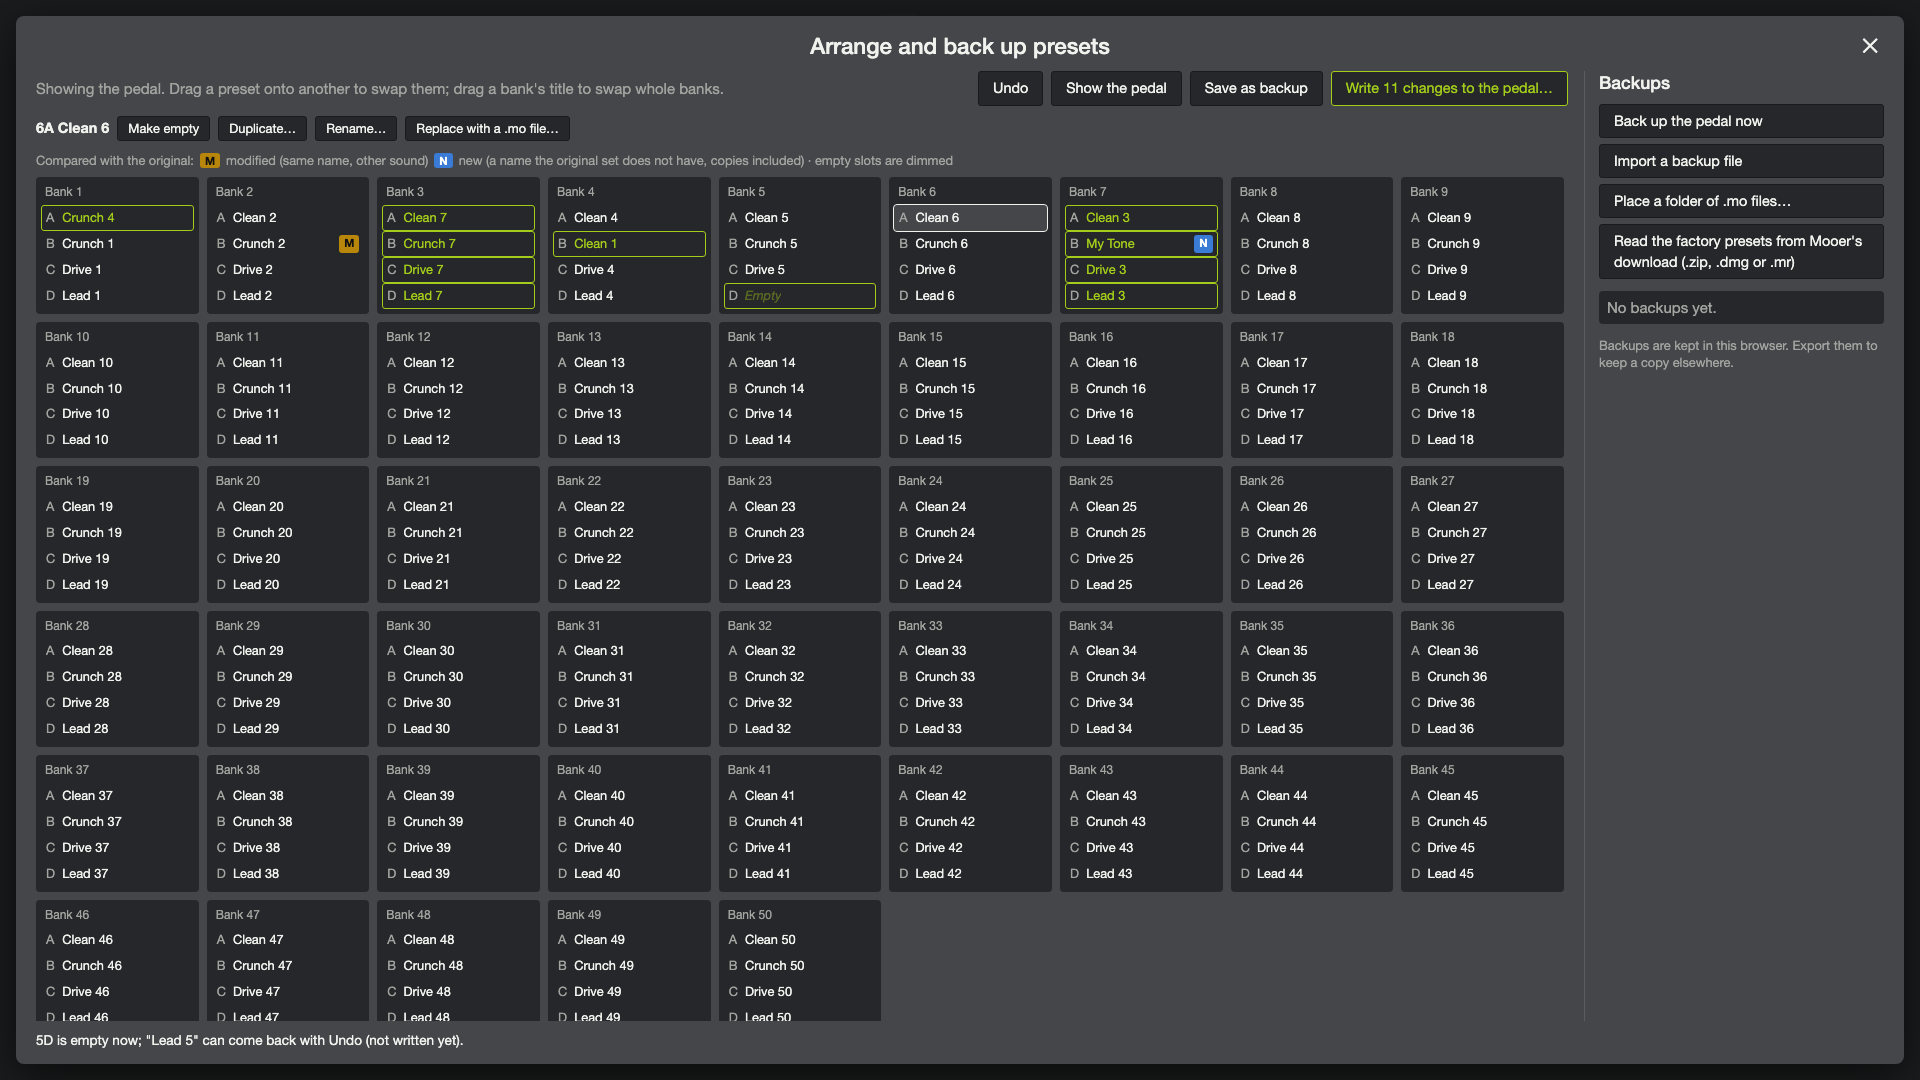
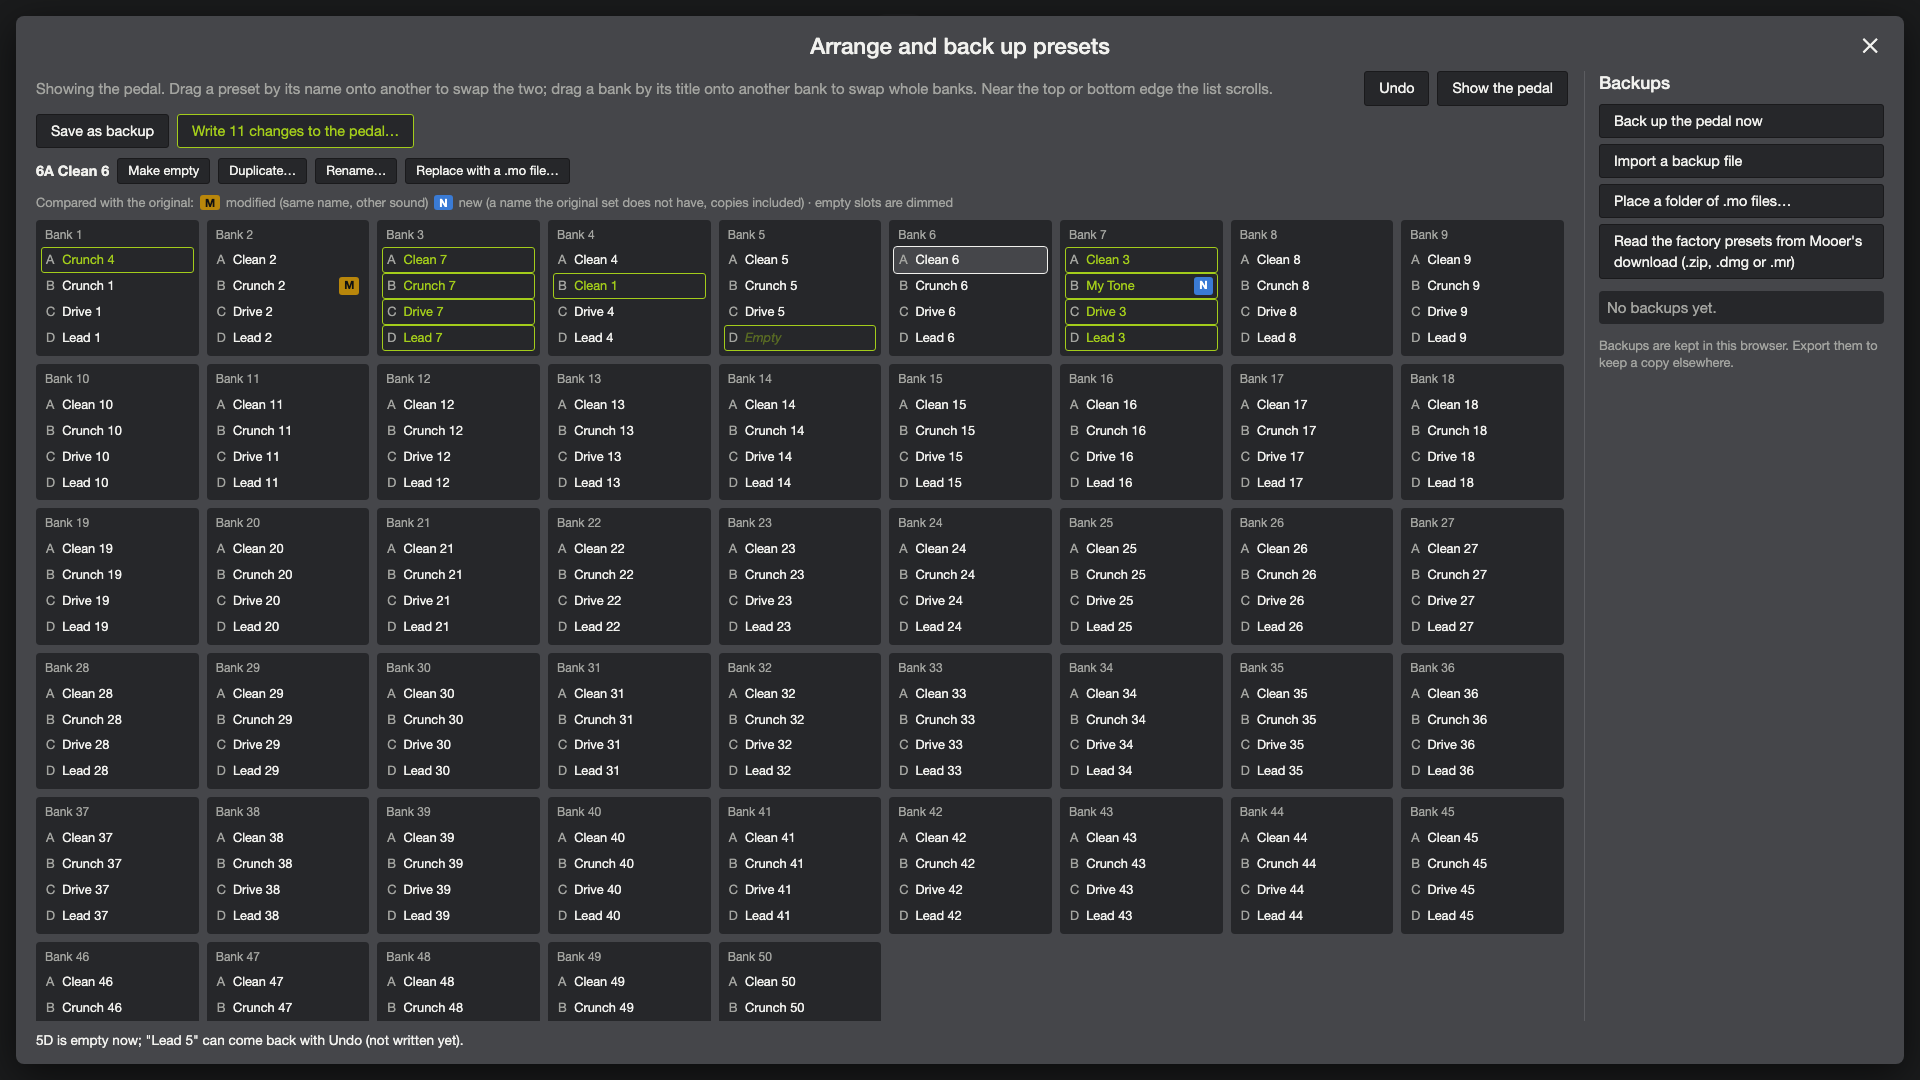
feat(arrange): banks and presets swap by drag and drop with a target frame and auto-scroll
- a bank is grabbed by its title and dropped anywhere on another bank; the two swap (Undo takes it back)
- a preset is grabbed by its name and swaps with the slot it is dropped on, in its bank or another
- the drop target has a thin frame of its own color; the dragged bank or slot is dimmed
- near the top or bottom edge of the list (or past it) the list scrolls, so every bank can be reached; a drop
  outside the list does nothing

Claude-Session: https://claude.ai/code/session_01Ew5DouUYP7qcWshz9murCz

Changed region(s): [[0.0, 0.0611, 0.8125, 0.9472]]

diff --git a/src/components/ArrangeDialog.svelte b/src/components/ArrangeDialog.svelte
@@ -65,12 +65,52 @@
   }
 
   // ---- drag and drop ---------------------------------------------------------------------------------------------
-  const drag = (e: DragEvent, what: string) => {
+  /** What is being dragged here: a bank, a slot's preset or a tray chip (null: nothing, or a file from outside). */
+  let dragging: { kind: string; n: number } | null = $state(null);
+  const drag = (e: DragEvent, what: string, image?: Element | null) => {
     // Option (Alt) while dragging a preset: copy it instead of swapping
     const copy = e.altKey && what.startsWith('slot:');
     e.dataTransfer?.setData('text/plain', copy ? what.replace('slot:', 'copy:') : what);
     if (e.dataTransfer) e.dataTransfer.effectAllowed = copy ? 'copy' : 'move';
+    // the whole slot or bank goes with the pointer, not just the name or title that was grabbed
+    if (image && e.dataTransfer) e.dataTransfer.setDragImage(image, 12, 10);
+    const [kind, n] = what.split(':');
+    dragging = { kind, n: Number(n) };
+    startAutoScroll();
   };
+  function dragEnd() {
+    dragging = null;
+    dragOver = '';
+    stopAutoScroll();
+  }
+
+  // While dragging, the grid scrolls when the pointer is near its top or bottom edge, or beyond it, so every bank and
+  // slot can be reached; a drop outside the grid does nothing.
+  let banksEl: HTMLElement | undefined = $state();
+  let pointerY: number | null = null;
+  let scrollFrame = 0;
+  const EDGE = 48;
+  function startAutoScroll() {
+    cancelAnimationFrame(scrollFrame);
+    const step = () => {
+      const el = banksEl;
+      if (el && pointerY !== null) {
+        const r = el.getBoundingClientRect();
+        const up = r.top + EDGE - pointerY;
+        const down = pointerY - (r.bottom - EDGE);
+        // faster the closer to (or further past) the edge: up to 20 px per frame
+        if (up > 0) el.scrollTop -= Math.min(20, Math.ceil(up / 4));
+        else if (down > 0) el.scrollTop += Math.min(20, Math.ceil(down / 4));
+      }
+      scrollFrame = requestAnimationFrame(step);
+    };
+    scrollFrame = requestAnimationFrame(step);
+  }
+  function stopAutoScroll() {
+    cancelAnimationFrame(scrollFrame);
+    pointerY = null;
+  }
+  onMount(() => stopAutoScroll);
   /** What a drop carries: "slot:3", "copy:3", "bank:7" or "tray:0". */
   const dropped = (e: DragEvent) => {
     const [kind, n] = (e.dataTransfer?.getData('text/plain') ?? '').split(':');
@@ -133,9 +173,20 @@
     if (file && selected !== null) replaceWithMo(file, selected);
   }
 
+  /** A slot under a dragged preset, tray chip or file (a dragged bank goes to the bank instead). */
+  function overSlot(e: DragEvent, slot: number) {
+    if (dragging?.kind === 'bank') return;
+    over(e, `slot:${slot}`);
+  }
+  function overBank(e: DragEvent, bank: number) {
+    if (dragging?.kind !== 'bank') return;
+    over(e, `bank:${bank}`);
+  }
+
   function dropOnSlot(e: DragEvent, slot: number) {
+    if (dragging?.kind === 'bank') return; // the bank takes it
     e.preventDefault();
-    dragOver = '';
+    dragEnd();
     const file = e.dataTransfer?.files?.[0];
     if (file) {
       if (file.name.toLowerCase().endsWith('.mo')) replaceWithMo(file, slot);
@@ -153,8 +204,9 @@
   }
 
   function dropOnBank(e: DragEvent, bank: number) {
+    if (dragging?.kind !== 'bank') return;
     e.preventDefault();
-    dragOver = '';
+    dragEnd();
     const { kind, n } = dropped(e);
     if (kind === 'bank' && n !== bank) change(swapBanks(layout, n, bank));
   }
@@ -342,7 +394,11 @@
   const estimate = (n: number) => Math.ceil((n * 0.6) / 5) * 5;
 </script>
 
-<svelte:window onkeydown={(e) => e.key === 'Escape' && !editor.busy && !confirming && onclose()} />
+<svelte:window
+  onkeydown={(e) => e.key === 'Escape' && !editor.busy && !confirming && onclose()}
+  ondragover={(e) => dragging && (pointerY = e.clientY)}
+  ondragend={dragEnd}
+/>
 <div class="backdrop" role="presentation"></div>
 <div class="sheet" role="dialog" aria-modal="true" aria-labelledby="arrange-title">
   <header>
@@ -353,7 +409,7 @@
   <div class="layout">
     <section class="arrange">
       <div class="bar">
-        <span class="muted">Showing {showing}. Drag a preset onto another to swap them; drag a bank's title to swap whole banks.</span>
+        <span class="muted">Showing {showing}. Drag a preset by its name onto another to swap the two; drag a bank by its title onto another bank to swap whole banks. Near the top or bottom edge the list scrolls.</span>
         <span class="grow"></span>
         <button class="btn" disabled={!history.length || editor.busy} onclick={undo}>Undo</button>
         <button class="btn" disabled={editor.busy} onclick={() => show(editor.pedalLayout(), 'the pedal')}>Show the pedal</button>
@@ -390,23 +446,31 @@
         <div class="tray" aria-label="Presets without a slot">
           <strong>Without a slot:</strong>
           {#each tray as t, k (k)}
-            <span class="chip" draggable="true" role="listitem" ondragstart={(e) => drag(e, `tray:${k}`)} title={t.file}>{t.preset.name}</span>
+            <span class="chip" draggable="true" role="listitem" ondragstart={(e) => drag(e, `tray:${k}`)} ondragend={dragEnd} title={t.file}>{t.preset.name}</span>
           {/each}
         </div>
       {/if}
 
-      <div class="banks">
+      <div class="banks" bind:this={banksEl}>
         {#each Array.from({ length: BANK_COUNT }, (_, b) => b) as b (b)}
-          <div class="bank" class:target={dragOver === `bank:${b}`}>
+          <div
+            class="bank"
+            class:target={dragOver === `bank:${b}`}
+            class:dragged={dragging?.kind === 'bank' && dragging.n === b}
+            role="group"
+            aria-label="Bank {b + 1}"
+            ondragover={(e) => overBank(e, b)}
+            ondragleave={(e) => !e.currentTarget.contains(e.relatedTarget as Node) && (dragOver = '')}
+            ondrop={(e) => dropOnBank(e, b)}
+          >
             <div
               class="bank-title"
               draggable={!editor.busy}
               role="button"
               tabindex="-1"
-              ondragstart={(e) => drag(e, `bank:${b}`)}
-              ondragover={(e) => over(e, `bank:${b}`)}
-              ondragleave={() => (dragOver = '')}
-              ondrop={(e) => dropOnBank(e, b)}
+              title="Drag onto another bank to swap the two"
+              ondragstart={(e) => drag(e, `bank:${b}`, e.currentTarget.parentElement)}
+              ondragend={dragEnd}
             >
               Bank {b + 1}
             </div>
@@ -420,21 +484,26 @@
                 class:unused={origin === 'empty'}
                 class:copying={copyFrom !== null}
                 class:target={dragOver === `slot:${i}`}
+                class:dragged={dragging?.kind === 'slot' && dragging.n === i}
                 class:selected={selected === i}
-                draggable={!!p && !editor.busy}
                 role="button"
                 tabindex="0"
                 aria-pressed={selected === i}
                 title={p ? `${label(i)} ${p.name}` : `${label(i)} (no preset)`}
-                ondragstart={(e) => drag(e, `slot:${i}`)}
-                ondragover={(e) => over(e, `slot:${i}`)}
-                ondragleave={() => (dragOver = '')}
+                ondragover={(e) => overSlot(e, i)}
+                ondragleave={(e) => !e.currentTarget.contains(e.relatedTarget as Node) && (dragOver = '')}
                 ondrop={(e) => dropOnSlot(e, i)}
                 onclick={() => clickSlot(i)}
                 onkeydown={(e) => e.key === 'Enter' && clickSlot(i)}
               >
                 <span class="letter">{'ABCD'[i % 4]}</span>
-                <span class="name">{p?.name ?? '—'}</span>
+                <span
+                  class="name"
+                  draggable={!!p && !editor.busy}
+                  role="presentation"
+                  ondragstart={(e) => drag(e, `slot:${i}`, e.currentTarget.parentElement)}
+                  ondragend={dragEnd}>{p?.name ?? '—'}</span
+                >
                 {#if origin === 'modified'}<span class="mark modified" title="Modified: the original has this name with another sound">M</span>{:else if origin === 'new'}<span class="mark new" title="New: not in the original set">N</span>{/if}
               </div>
             {/each}
@@ -635,8 +704,15 @@
     padding: 4px;
     border: 1px solid transparent;
   }
-  .bank.target {
-    border-color: var(--accent);
+  /* where a dragged bank or preset lands: a thin frame in a color of its own (green marks changes, white the selection) */
+  .bank.target,
+  .slot.target {
+    outline: 1px solid var(--warn);
+    outline-offset: 1px;
+  }
+  .bank.dragged,
+  .slot.dragged {
+    opacity: 0.45;
   }
   .bank-title {
     font-size: 0.75rem;
@@ -652,7 +728,7 @@
     padding: 3px 4px;
     border-radius: 3px;
     border: 1px solid transparent;
-    cursor: grab;
+    cursor: pointer;
     white-space: nowrap;
     overflow: hidden;
   }
@@ -661,8 +737,12 @@
     width: 0.8em;
   }
   .slot .name {
+    flex: 1;
     overflow: hidden;
     text-overflow: ellipsis;
+  }
+  .slot .name[draggable='true'] {
+    cursor: grab;
   }
   .slot.changed {
     border-color: var(--accent);
@@ -701,10 +781,7 @@
     opacity: 0.45;
     cursor: default;
   }
-  .slot.target {
-    background: var(--panel);
-    border-color: var(--text);
-  }
+
   .backups {
     overflow-y: auto;
     border-left: 1px solid var(--line);

diff --git a/e2e/arrange.spec.ts b/e2e/arrange.spec.ts
@@ -89,3 +89,69 @@ test('backups: save one, export it, import it back, and delete both', async ({ p
   await expect(page.locator('.backups')).toContainText('No backups yet.');
   expect(errors).toEqual([]);
 });
+
+test('a bank dropped anywhere on another bank swaps the two; the target has a frame while dragging', async ({ page }) => {
+  const errors = watchErrors(page);
+  await openArrange(page);
+  const bank = (b: number) => page.locator('.bank').nth(b);
+  await page.locator('.bank-title').nth(1).hover();
+  await page.mouse.down();
+  await slot(page, 14).hover(); // bank 4, its C slot
+  await slot(page, 14).hover({ position: { x: 30, y: 6 } });
+  await expect(bank(3)).toHaveClass(/target/);
+  await expect(slot(page, 14)).not.toHaveClass(/target/);
+  await expect(bank(1)).toHaveClass(/dragged/);
+  await page.mouse.up();
+  await expect(slot(page, 12)).toContainText('Clean 2');
+  await expect(slot(page, 4)).toContainText('Clean 4');
+  await expect(page.locator('.bank.target')).toHaveCount(0);
+  await page.getByRole('button', { name: 'Undo' }).click();
+  await expect(slot(page, 4)).toContainText('Clean 2');
+  expect(errors).toEqual([]);
+});
+
+test('a preset is grabbed by its name and swaps with the preset it is dropped on, in its bank or another', async ({ page }) => {
+  await openArrange(page);
+  await expect(slot(page, 0)).not.toHaveAttribute('draggable', 'true');
+  await expect(slot(page, 0).locator('.name')).toHaveAttribute('draggable', 'true');
+  // inside the bank
+  await slot(page, 0).locator('.name').dragTo(slot(page, 3));
+  await expect(slot(page, 0)).toContainText('Lead 1');
+  await expect(slot(page, 3)).toContainText('Clean 1');
+  // to another bank, with the frame on the slot under the pointer
+  await slot(page, 1).locator('.name').hover();
+  await page.mouse.down();
+  await slot(page, 22).hover();
+  await slot(page, 22).hover({ position: { x: 40, y: 6 } });
+  await expect(slot(page, 22)).toHaveClass(/target/);
+  await page.mouse.up();
+  await expect(slot(page, 22)).toContainText('Crunch 1');
+  await expect(slot(page, 1)).toContainText('Drive 6');
+  await expect(writeButton(page)).toHaveText(/Write 4 changes/);
+  await page.getByRole('button', { name: 'Undo' }).click();
+  await page.getByRole('button', { name: 'Undo' }).click();
+  await expect(writeButton(page)).toHaveText(/Write 0 changes/);
+});
+
+test('dragging to the bottom edge scrolls the list, so a bank far down can be reached', async ({ page }) => {
+  await openArrange(page);
+  const banks = page.locator('.banks');
+  const box = (await banks.boundingBox())!;
+  await page.locator('.bank-title').nth(0).hover();
+  await page.mouse.down();
+  await page.mouse.move(box.x + box.width / 2, box.y + box.height - 20, { steps: 4 });
+  // keep the pointer there (the browser repeats dragover while it rests) until the list has reached its end
+  await expect
+    .poll(async () => {
+      await page.mouse.move(box.x + box.width / 2 + 1, box.y + box.height - 20);
+      await page.mouse.move(box.x + box.width / 2, box.y + box.height - 20);
+      return banks.evaluate((el) => el.scrollTop + el.clientHeight >= el.scrollHeight - 2);
+    }, { timeout: 15000 })
+    .toBe(true);
+  await page.locator('.bank-title').nth(49).hover();
+  await page.locator('.bank-title').nth(49).hover({ position: { x: 20, y: 5 } });
+  await expect(page.locator('.bank').nth(49)).toHaveClass(/target/);
+  await page.mouse.up();
+  await expect(slot(page, 196)).toContainText('Clean 1');
+  await expect(slot(page, 0)).toContainText('Clean 50');
+});

diff --git a/README.md b/README.md
@@ -35,8 +35,9 @@ only to describe what the pedal does.
 
 ![Arranging: swapped presets and banks are highlighted, M and N mark presets that differ from the original set](docs/screenshots/arrange.png)
 
-- **Arrange** the 200 slots on one screen: drag a preset onto another to swap them, drag a bank's title to swap whole
-  banks. Click a slot to **make it empty**, **duplicate** the preset into another slot under a new name (or
+- **Arrange** the 200 slots on one screen: drag a preset by its name onto another to swap them, drag a bank by its
+  title onto another bank to swap whole banks (Undo takes either back; a thin frame shows where it lands, and the list
+  scrolls at its top and bottom edge). Click a slot to **make it empty**, **duplicate** the preset into another slot under a new name (or
   Option-drag it), **rename** it, or **replace it with a `.mo` file**, for example one downloaded from elsewhere (pick
   it, or drop it from the Finder onto the slot). Every change is pending, highlighted and can be undone.
 - **Write** the changed slots to the pedal: after a warning, the editor saves a backup of the pedal, writes each slot
